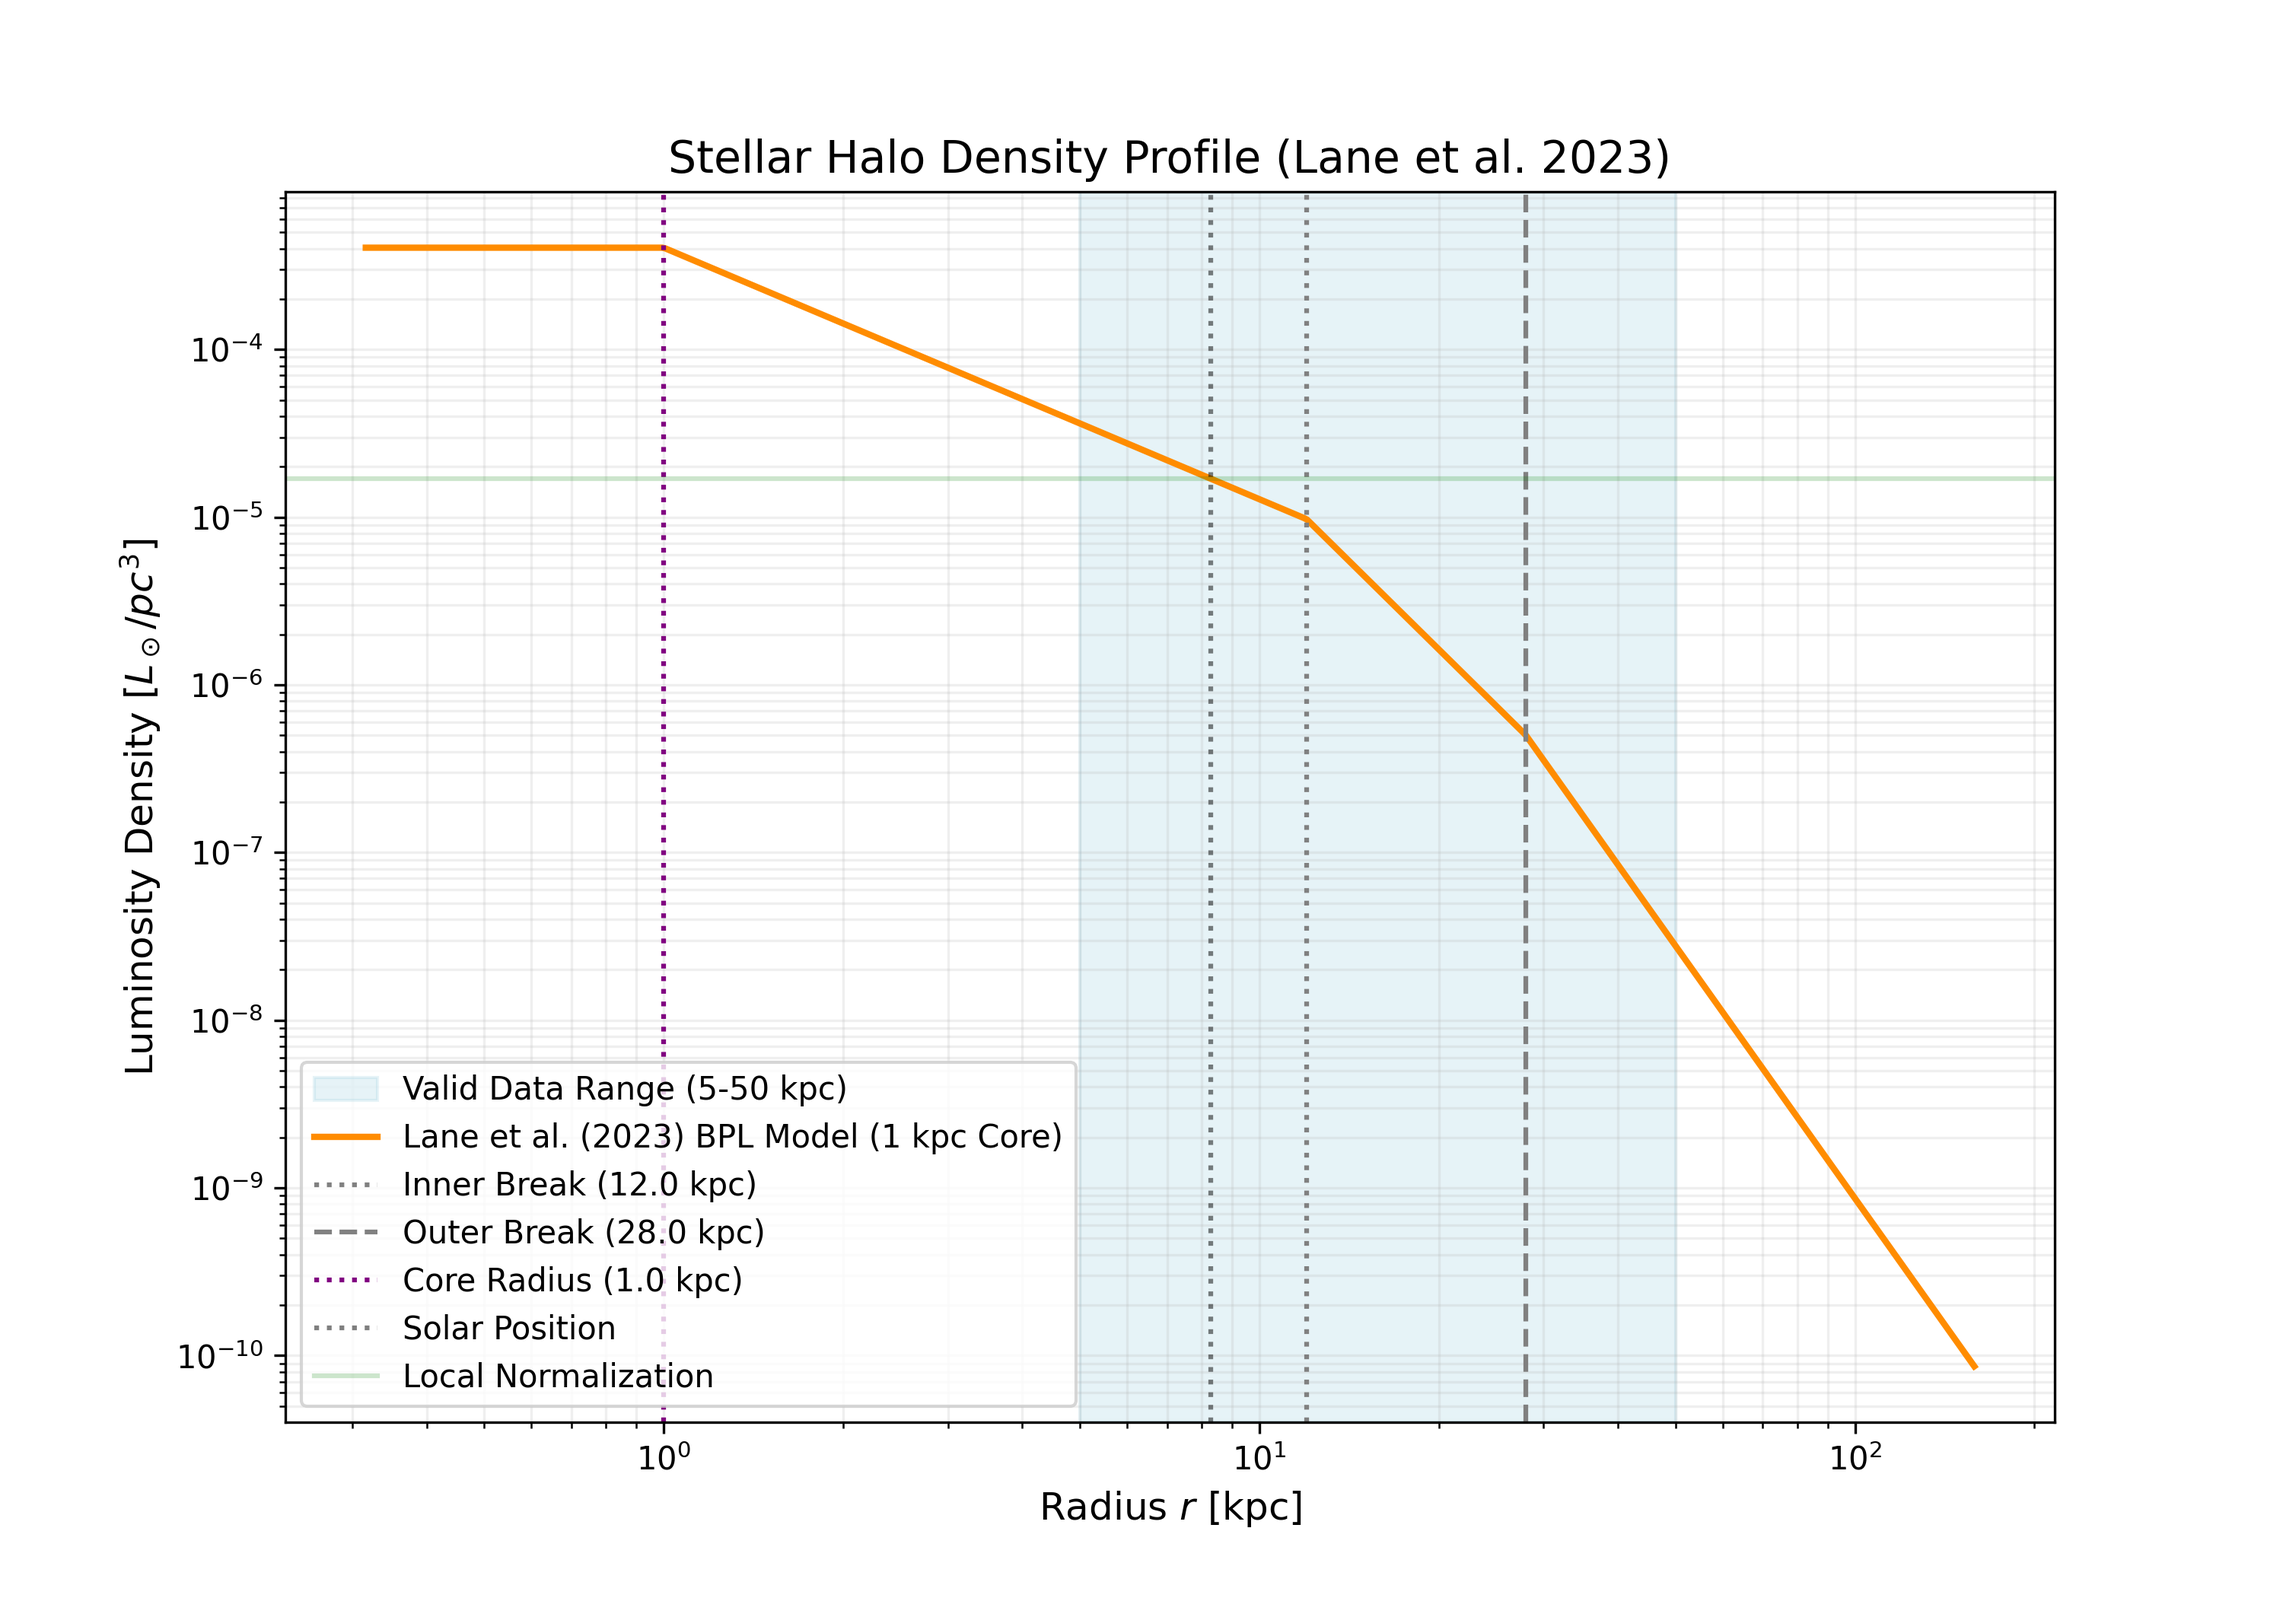
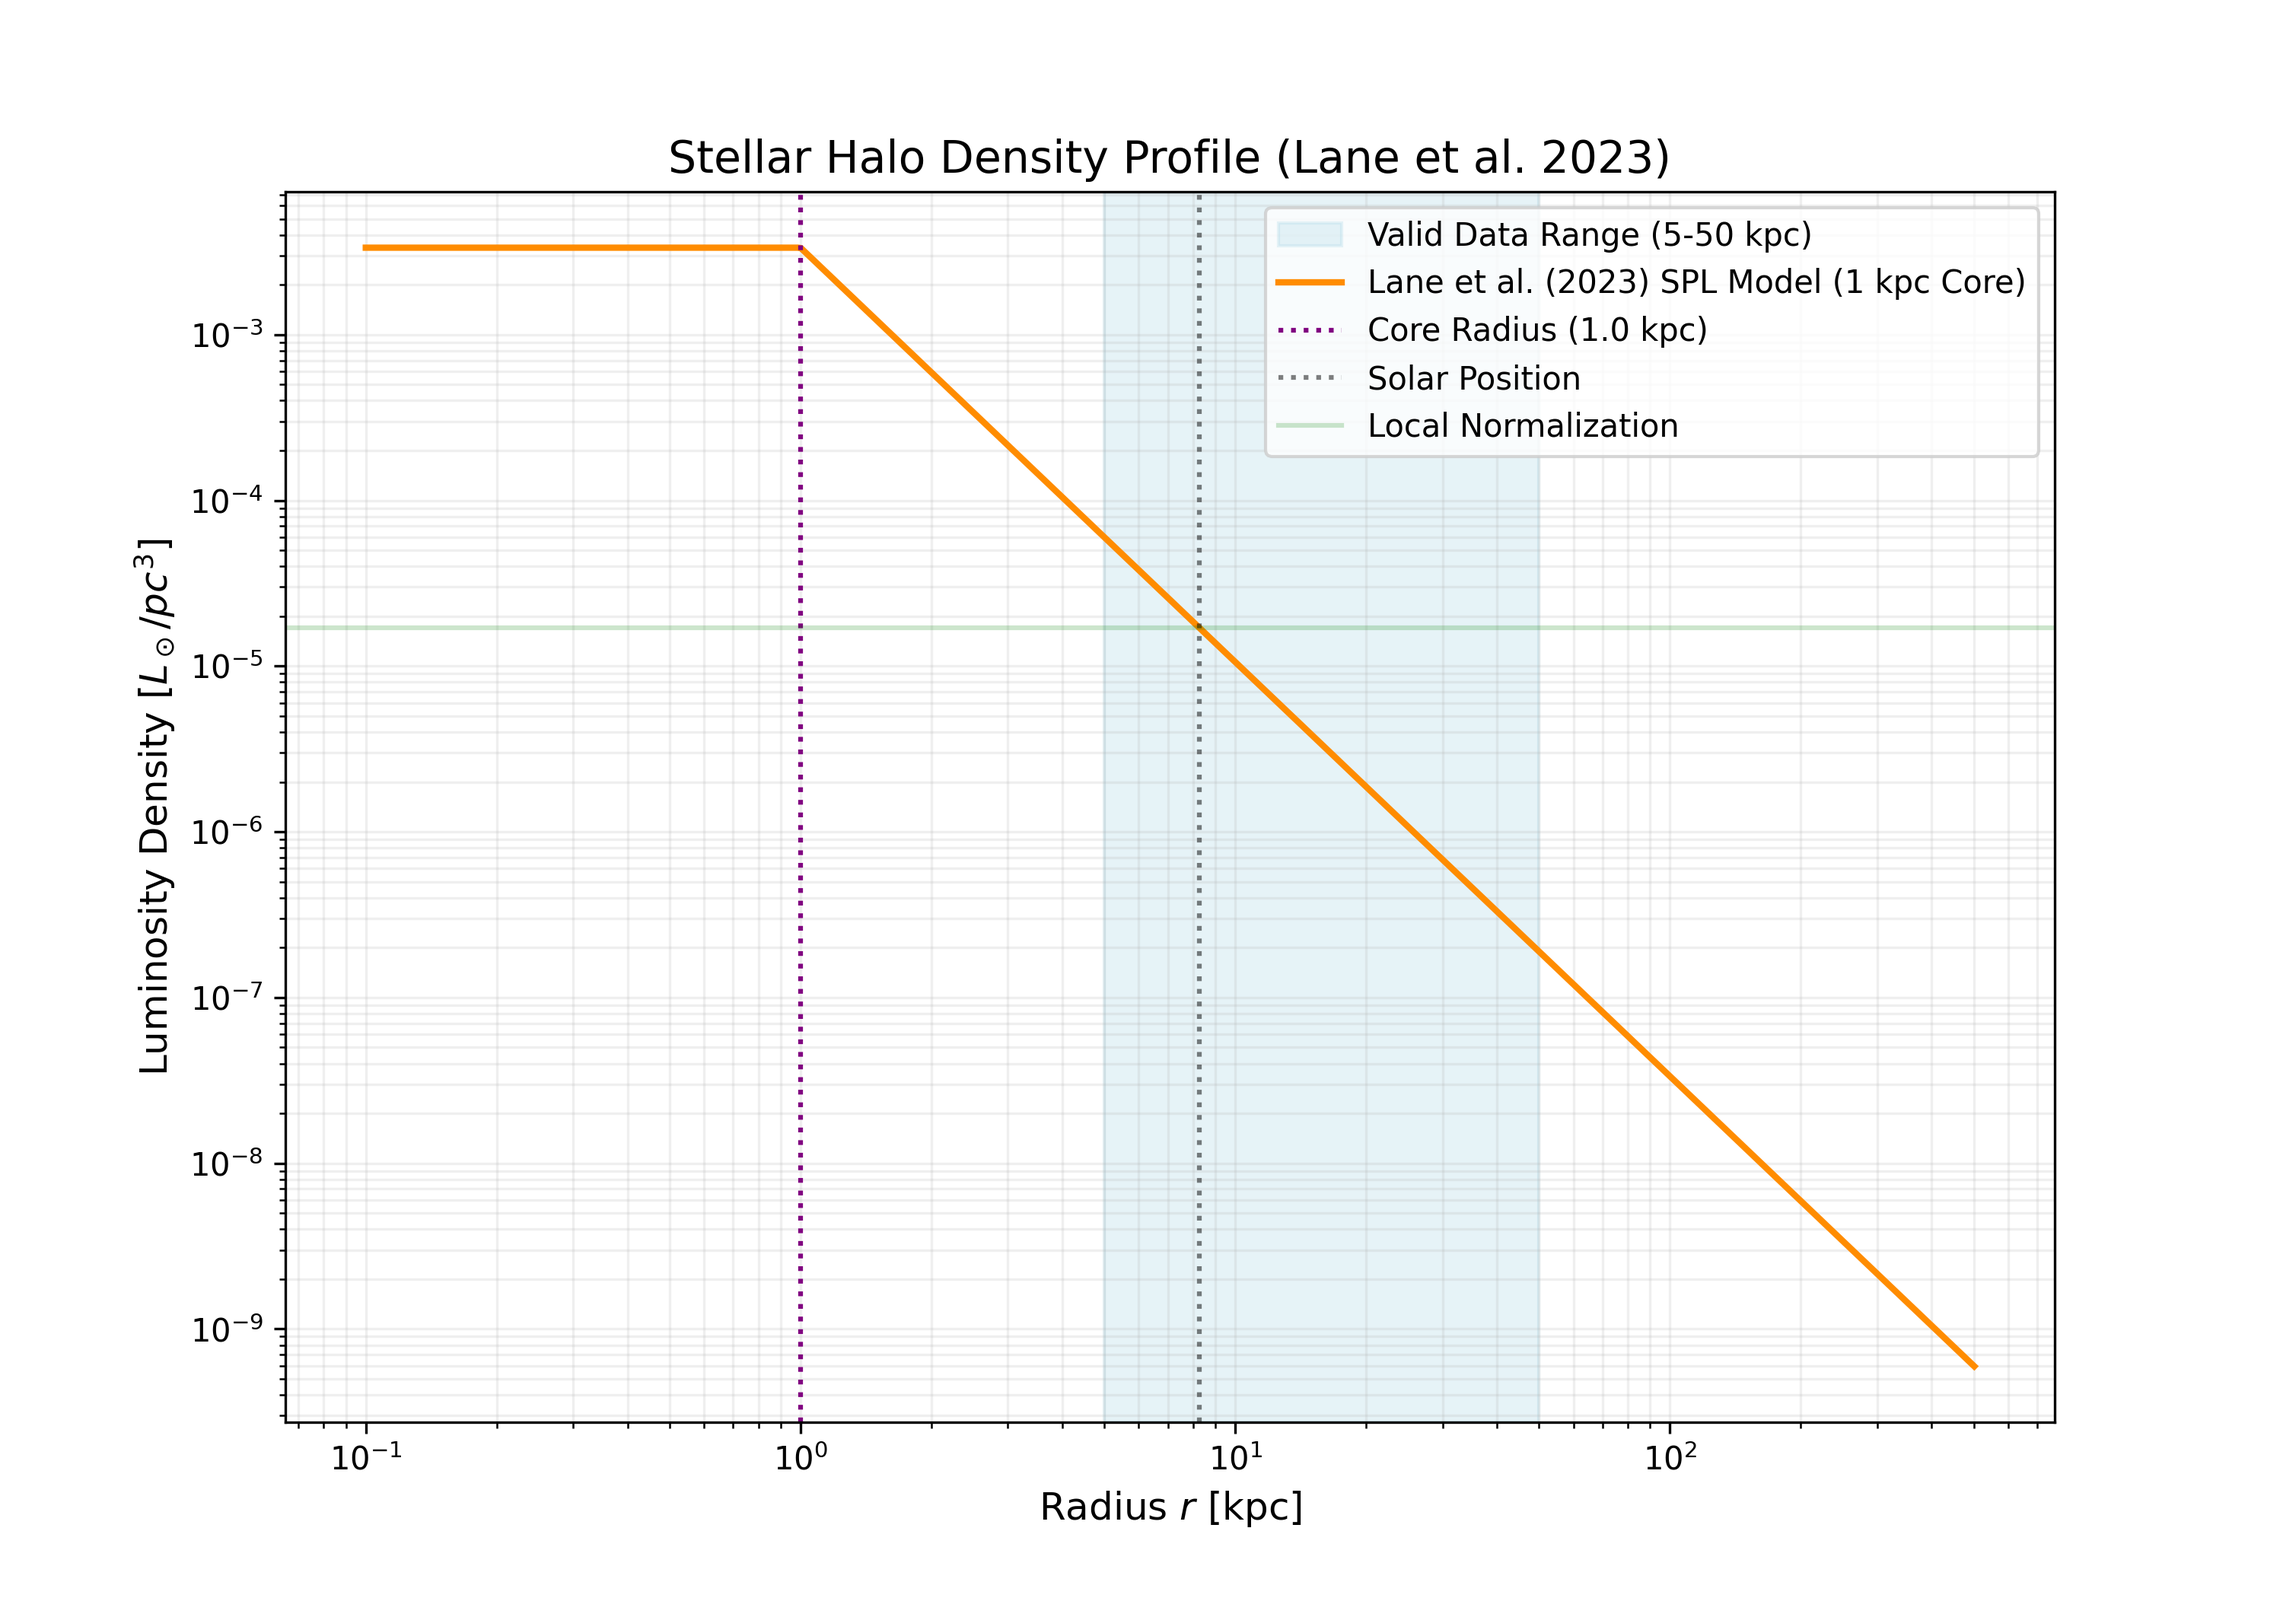
Add files via upload

diff --git a/assets/lane2023_density_model.py b/assets/lane2023_density_model.py
@@ -1,75 +1,58 @@
 import numpy as np
 import matplotlib.pyplot as plt
+from scipy.integrate import quad
 
 def calculate_lane2023_halo():
     # Parameters from Lane et al. (2023) - MNRAS 526, 1209
-    # Model: Doubly Broken Power Law (GSE component)
-    a1, a2, a3 = 1.5, 3.5, 5.0
-    rb1, rb2 = 12.0, 28.0
+    # Model: Triaxial Oblate Single Power Law (Whole Halo fit)
+    alpha = 2.5
     r_core = 1.0   # 1 kpc constant density core (project requirement)
-    
-    # Flattening q ~ 1.25 (Prolate). Tilted 16 degrees.
-    q = 1.25 
-    p = 1.0 # Assuming axial symmetry in the prolate plane
+    p = 0.9        # Triaxial shape parameter b/a
+    q = 0.58       # Triaxial shape parameter c/a (oblate)
     R_sun = 8.275 
 
     # User local norm
     rho_local_Lsun_pc3 = 1.7e-5
     rho_local_Lsun_kpc3 = rho_local_Lsun_pc3 * (1000**3)
 
-    # Doubly Broken Power Law Profile with Core
+    # Single Power Law Profile with Core
     def profile(r):
-        if r < r_core:
-            return r_core**-a1
-        elif r < rb1:
-            return r**-a1
-        elif r < rb2:
-            return (rb1**(a2-a1)) * (r**-a2)
-        else:
-            C = rb1**(a2-a1)
-            return (C * rb2**(a3-a2)) * (r**-a3)
+        r_eff = max(r, r_core)
+        return r_eff**-alpha
 
     # Normalization at the Sun
     norm_at_sun = profile(R_sun)
     rho_0 = rho_local_Lsun_kpc3 / norm_at_sun
 
-    # Analytical Integration for Luminosity
+    # Numerical Integration for Luminosity
     # L = 4 * pi * p * q * Integral[ rho(r) * r^2 dr ]
+    def integrand(r):
+        return profile(r) * r**2
     
-    # Part 0: 0 to r_core
-    int0 = (r_core**-a1) * (r_core**3 / 3.0)
-    # Part 1: r_core to rb1
-    int1 = (rb1**(3-a1) - r_core**(3-a1)) / (3-a1)
-    # Part 2: rb1 to rb2
-    C = rb1**(a2-a1)
-    int2 = C * (rb2**(3-a2) - rb1**(3-a2)) / (3-a2)
-    # Part 3: rb2 to infinity
-    D = C * rb2**(a3-a2)
-    int3 = D * (0 - rb2**(3-a3)) / (3-a3)
+    # Integrate from 0 to 500 kpc
+    result, error = quad(integrand, 0.0, 500.0)
+    L_total = 4 * np.pi * p * q * rho_0 * result
 
-    L_total = 4 * np.pi * p * q * rho_0 * (int0 + int1 + int2 + int3)
-
-    print(f"--- Lane et al. (2023) - The stellar mass of the Gaia-Sausage/Enceladus accretion remnant ---")
-    print(f"Central Norm (rho_0 at 1kpc): {rho_0:.2e} Lsun/kpc^3")
-    print(f"Total Halo Luminosity:        {L_total:.2e} Lsun")
-    print(f"Break Radii:                  {rb1} kpc, {rb2} kpc")
-    print(f"Core Radius:                  {r_core} kpc")
-    print(f"Power-law Indices:            {a1}, {a2}, {a3}")
-    print(f"Flattening (q):               {q} (Prolate)")
-    print(f"Tilt:                         16 degrees")
-    print(f"---------------------------------------------------")
+    print(f"--- Lane et al. (2023) Whole Halo Properties ---")
+    print(f"Model:                Triaxial Oblate Single Power Law")
+    print(f"Central Norm (rho_0): {rho_0:.2e} Lsun/kpc^3")
+    print(f"Total Halo Luminosity: {L_total:.2e} Lsun")
+    print(f"Slope (alpha):        {alpha}")
+    print(f"Core Radius:          {r_core} kpc")
+    print(f"Flattening (q):       {q} (Oblate)")
+    print(f"Axis ratio (p):       {p}")
+    print(f"Valid Range:          5 - 50 kpc")
+    print(f"------------------------------------------------------------------")
 
     # Plotting
-    r_vals = np.logspace(-0.5, 2.2, 500)
+    r_vals = np.logspace(-1, 2.7, 500)
     rho_vals = np.array([rho_0 * profile(r) for r in r_vals])
 
     plt.figure(figsize=(10, 7))
     plt.axvspan(5, 50, color='lightblue', alpha=0.3, label='Valid Data Range (5-50 kpc)')
-    plt.loglog(r_vals, rho_vals / (1000**3), color='darkorange', linewidth=2, label='Lane et al. (2023) BPL Model (1 kpc Core)')
+    plt.loglog(r_vals, rho_vals / (1000**3), color='darkorange', linewidth=2, label='Lane et al. (2023) SPL Model (1 kpc Core)')
     
     # Markers
-    plt.axvline(rb1, color='gray', linestyle=':', label=f'Inner Break ({rb1} kpc)')
-    plt.axvline(rb2, color='gray', linestyle='--', label=f'Outer Break ({rb2} kpc)')
     plt.axvline(r_core, color='purple', linestyle=':', label=f'Core Radius ({r_core} kpc)')
     plt.axvline(R_sun, color='black', linestyle=':', alpha=0.5, label='Solar Position')
     plt.axhline(rho_local_Lsun_pc3, color='green', linestyle='-', alpha=0.2, label='Local Normalization')
